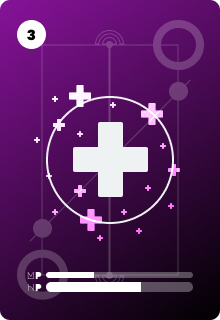
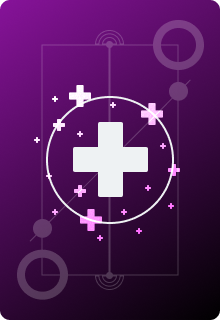
Started battle card screen structure. Hooked up health/magic/level to areaSlice

Changed region(s): [[0.1091, 0.8438, 0.8727, 0.9375], [0.0545, 0.0625, 0.2182, 0.1562]]

diff --git a/src/initialStates/area.js b/src/initialStates/area.js
@@ -2,6 +2,91 @@ export const initialArea = {
     name: 'Starter Area',
     level: 1,
     encounters: [],
-    currentEncounter: {},
+    currentHeroes: [
+        {
+            name: 'Bruno',
+            class: 'Warrior',
+            level: 1,
+            resurectionCost: { cards: 10000, suits: { hearts: 0, spades: 0, diamonds: 0, clubs: 0 } },
+            image: '',
+            health: { base: 100, currentHealth: 30, multi: 1 },
+            magic: { base: 10, currentMagic: 10, multi: 1 },
+            attack: { base: 50, multi: 1 },
+            block: { base: 10, multi: 1 },
+
+            abilities: [ 
+
+                /* ABILITIES.cleave,
+                ABILITIES.frenzy */
+
+            ],
+            id: 'BrunoWarrior'
+        },
+        {
+            name: 'Kazadal',
+            class: 'Healer',
+            level: 2,
+            resurectionCost: { cards: 10000, suits: { hearts: 0, spades: 0, diamonds: 0, clubs: 0 } },
+            image: '',
+            health: { base: 100, currentHealth: 80, multi: 1 },
+            magic: { base: 100, currentMagic: 50, multi: 1 },
+            attack: { base: 50, multi: 1 },
+            block: { base: 10, multi: 1 },
+
+            abilities: [ 
+
+                /* ABILITIES.cleave,
+                ABILITIES.frenzy */
+
+            ],
+            id: 'KazadalHealer'
+        }
+    ],
+    currentEncounter: {
+        cardGroup: [
+            {
+                name: 'Warrior Bob',
+                class: 'Warrior',
+                level: 1,
+                resurectionCost: { cards: 10000, suits: { hearts: 0, spades: 0, diamonds: 0, clubs: 0 } },
+                image: '',
+                health: { base: 100, currentHealth: 100, multi: 1 },
+                attack: { base: 50, multi: 1 },
+                block: { base: 10, multi: 1 },
+                magic: { base: 0, multi: 1 },
+    
+                abilities: [ 
+    
+                    /* ABILITIES.cleave,
+                    ABILITIES.frenzy */
+    
+                ],
+                id: 'warriorTest'
+            },
+            {
+                name: 'Healer Bob',
+                class: 'Healer',
+                level: 1,
+                resurectionCost: { cards: 10000, suits: { hearts: 0, spades: 0, diamonds: 0, clubs: 0 } },
+                image: '',
+                health: { base: 100, currentHealth: 100, multi: 1 },
+                attack: { base: 50, multi: 1 },
+                block: { base: 10, multi: 1 },
+                magic: { base: 0, multi: 1 },
+    
+                abilities: [ 
+    
+                    /* ABILITIES.cleave,
+                    ABILITIES.frenzy */
+    
+                ],
+                id: 'healerTest'
+            }
+        ],
+        encounterPayout: {
+            cards: 1000, 
+            suitTypes: ['hearts'], 
+            suitPayout: 100}
+    },
     completionPayout: {}
 }

diff --git a/src/components/features/areaExploration/BattleCardGroup.js b/src/components/features/areaExploration/BattleCardGroup.js
@@ -1,0 +1,33 @@
+import React from 'react'
+import { useSelector } from 'react-redux'
+import { selectArea } from '../../../reducers/areaSlice'
+import { getDeckCardBG } from '../../../Utils'
+import { Card, FlipableCard } from '../../Card'
+import styles from './area.module.css'
+
+export default function BattleCardGroup({cardGroup}) {
+  console.log(styles)
+  
+  const CardFront = ({card}) => {
+    let image = getDeckCardBG(card.class)
+    return <>
+      <div className={styles['card-front']} style={{backgroundImage: image}}>
+        <div className={styles['level-display']}>{card.level}</div>
+        <div className={styles['status-displays']}>
+          <div className={styles['magic-bar']}><div className={styles['status-bar-inner']} style={{width: `${(card.magic.currentMagic / card.magic.base) * 100}%`}}></div></div>
+          <div className={styles['health-bar']}><div className={styles['status-bar-inner']} style={{width: `${(card.health.currentHealth / card.health.base) * 100}%`}}></div></div>
+        </div>
+      </div>
+    </>
+  } // HANDLING CARD COMPONENTS NEEDS TO BE REDONE
+
+  const cards = cardGroup.map((card) => {
+    return <>
+    <FlipableCard key={card.id} frontChildren={<CardFront card={card} />} />
+    </>
+  })
+
+  return (
+    <div className={styles['battle-card-group']}>{cards}</div>
+  )
+}

diff --git a/src/components/features/areaExploration/area.module.css b/src/components/features/areaExploration/area.module.css
@@ -1,0 +1,74 @@
+.area-container {
+    display: flex;
+    padding: 25px;
+    height: 100%;
+}
+
+.battle-card-field {
+    display: flex;
+    flex-direction: column;
+    justify-content: space-evenly;
+    height: 100%;
+    flex: 1;
+}
+
+.battle-card-group {
+    display: flex;
+    justify-content: center;
+}
+
+.battle-card-group > div {
+    margin: 10px;
+}
+
+.encounter-list {
+    width: 200px;
+}
+
+.card-front {
+    height: 100%;
+    width: 100%;
+    background-repeat: no-repeat;
+    background-size: cover;
+    background-color: red;
+    position: relative;
+}
+
+.status-displays {
+    width: 100%;
+    bottom: 0;
+    padding: 10px;
+    position: absolute;
+}
+
+.health-bar, .magic-bar {
+    width: 100%;
+    background-color: rgba(255, 255, 255, .3);
+    border-radius: 10px;
+    overflow: hidden;
+}
+
+.health-bar { height: 8px } .magic-bar { height: 5px; margin-bottom: 2px; }
+
+.status-bar-inner {
+    height: 100%;
+    width: 50%;
+    background-color: white;
+}
+
+.level-display {
+    height: 15px;
+    width: 15px;
+    position: absolute;
+    top: 10px;
+    left: 10px;
+    display: flex;
+    justify-content: center;
+    align-items: center;
+    background-color: white;
+    color: black;
+    font-weight: bold;
+    font-size: .6em;
+    border-radius: 50%;
+    overflow: hidden;
+}

diff --git a/src/app/App.js b/src/app/App.js
@@ -1,15 +1,11 @@
 import React from 'react'
 import LeftPane from '../components/LeftPane'
-import KingdomContainer from '../components/features/kingdom/KingdomContainer'
-import Dealer from '../components/features/pokerGame/Dealer'
 import SuitDisplay from '../components/features/resourceDisplays/SuitDisplay'
 import Modal from '../components/features/modal/Modal'
-import { Card } from '../components/Card'
 import { handleModalToggle } from '../actions/actions'
 import { useDispatch, useSelector } from 'react-redux'
 import { selectModal } from '../reducers/modalSlice'
 import PokerRewardModal from '../components/features/pokerGame/PokerRewardModal'
-import { Tab, Tabs, TabList, TabPanel } from 'react-tabs'
 import RightPane from '../components/RightPane'
 
 function App() {
@@ -19,10 +15,6 @@ function App() {
 
   return (
     <>
-      {/* {modal.toggleModal &&
-      <Modal header={'Poker sadf'} content={<><Card /></>} footer={<button onClick={() => handleModalToggle(dispatch)}>close</button>}/>
-      }      
-      <button onClick={() => handleModalToggle(dispatch)}>close</button> */}
       <LeftPane />
       <RightPane />
       

diff --git a/src/components/RightPane.js b/src/components/RightPane.js
@@ -1,5 +1,6 @@
 import React from 'react'
 import { Tab, Tabs, TabList, TabPanel } from 'react-tabs'
+import AreaExploration from './features/areaExploration/AreaExploration'
 import DeckContainer from './features/deck/DeckContainer'
 import KingdomContainer from './features/kingdom/KingdomContainer'
 
@@ -10,9 +11,11 @@ export default function RightPane() {
         <TabList className='tab-list'>
             <Tab className='tab'><img height={'40px'} src='assets/img/ui/tab-img-kingdom.png' alt='kingdom' /> Kingdom</Tab>
             <Tab className='tab'><img height={'40px'} src='assets/img/ui/tab-img-deck.png' alt='deck' /> Deck</Tab>
+            <Tab className='tab'><img height={'40px'} src='assets/img/ui/tab-img-deck.png' alt='area exploration' /> Area Exploration</Tab>
         </TabList>
         <TabPanel><KingdomContainer /></TabPanel>
         <TabPanel><DeckContainer /></TabPanel>
+        <TabPanel className='tab-panel'><AreaExploration /></TabPanel>
       </Tabs>
   )
 }

diff --git a/src/reducers/areaSlice.js b/src/reducers/areaSlice.js
@@ -1,11 +1,26 @@
 import { createSlice } from "@reduxjs/toolkit";
+import { initialArea } from "../initialStates/area";
 
 export const areaSlice = createSlice({
-    name: "deck",
-    initialState: initialDeck,
+    name: "area",
+    initialState: initialArea,
     reducers: {
-      addCardToDeck: (state, action) => {
-        
+      setArea: (state, action) => {
+        state = {
+            name: action.payload.name,
+            level: action.payload.level,
+            encounters: action.payload.encounters,
+            currentEncounter: action.payload.currentEncounter,
+            completionPayout: action.payload.completionPayout
+        }
+      },
+      changeHealth: (state, action) => {
+          console.log(state, action.payload)
       }
     }
 });
+
+export const selectArea = (state) => state.area;
+export const { setArea, changeHealth } = areaSlice.actions;
+
+export default areaSlice.reducer;

diff --git a/src/app/store.js b/src/app/store.js
@@ -3,6 +3,7 @@ import resourcesReducer from '../reducers/recourcesSlice';
 import producersReducer from '../reducers/producersSlice';
 import kingdomCardsReducer from '../reducers/kingdomCardsSlice';
 import deckReducer from '../reducers/deckSlice';
+import areaReducer from '../reducers/areaSlice';
 import pokerGameReducer from '../reducers/pokerGameSlice';
 import modalReducer from '../reducers/modalSlice';
 
@@ -13,6 +14,7 @@ export default configureStore({
         producers: producersReducer,
         kingdomCards: kingdomCardsReducer,
         deck: deckReducer,
+        area: areaReducer,
         pokerGame: pokerGameReducer,
         modal: modalReducer
     }

diff --git a/src/components/features/areaExploration/AreaExploration.js b/src/components/features/areaExploration/AreaExploration.js
@@ -1,0 +1,20 @@
+import React from 'react'
+import { useSelector } from 'react-redux'
+import { selectArea } from '../../../reducers/areaSlice'
+import BattleCardField from './BattleCardField'
+import EncounterList from './EncounterList'
+
+import styles from './area.module.css'
+
+
+export default function AreaExploration() {
+    const area = useSelector(selectArea);
+    console.log(styles)
+
+  return (
+    <div className={styles['area-container']}>
+        <BattleCardField area={area} />
+        <EncounterList />
+    </div>
+  )
+}

diff --git a/src/components/features/areaExploration/BattleCardField.js b/src/components/features/areaExploration/BattleCardField.js
@@ -1,0 +1,13 @@
+import React from 'react'
+import styles from './area.module.css'
+import BattleCardGroup from './BattleCardGroup'
+
+export default function BattleCardField({area}) {
+
+  return (
+    <div className={styles['battle-card-field']}>
+        <BattleCardGroup side={'enemy'} cardGroup={area.currentEncounter.cardGroup} />
+        <BattleCardGroup side={'hero'} cardGroup={area.currentHeroes} />
+    </div>
+  )
+}

diff --git a/src/components/features/deck/DeckContainer.js b/src/components/features/deck/DeckContainer.js
@@ -10,7 +10,6 @@ export default function DeckContainer() {
 
     const CardFront = ({card}) => {
         let image = getDeckCardBG(card.class)
-        console.log(image)
         return <div className={styles['card-front']} style={{backgroundImage: image}}></div>
     }
 

diff --git a/src/components/Card.js b/src/components/Card.js
@@ -39,3 +39,7 @@ export const FlipableCard = ({frontChildren, backChildren}) => {
 export const DeckCard = ({front, back}) => {
   return <FlipableCard frontChildren={front} backChildren={back} />
 }
+
+export const BattleCard = () => {
+  return <div></div>
+}

diff --git a/src/components/features/areaExploration/EncounterList.js b/src/components/features/areaExploration/EncounterList.js
@@ -1,0 +1,8 @@
+import React from 'react'
+import styles from './area.module.css'
+
+export default function EncounterList() {
+  return (
+    <div className={styles['encounter-list']}>EncounterList</div>
+  )
+}
